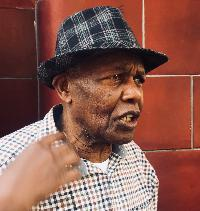
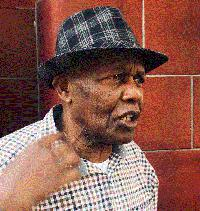
change so no hover and exif only for jpg and thumbnail for all

diff --git a/controller/uploadFunctions.php b/controller/uploadFunctions.php
@@ -3,18 +3,69 @@
 function createThumbnail($fileName)
 {
   //create thumbnail from uploaded image - thumbnail is for website/gallery display
-  $im = imagecreatefromjpeg('../uploads/'.$fileName);
-  $ox = imagesx($im);
-  $oy = imagesy($im);
+  $fileExt = explode('.', $fileName);
+  $fileExtension = strtolower(end($fileExt));
+  $_SESSION['fileExten'] = $fileExtension;
+  if($fileExtension == 'jpg' || $fileExtension == 'jpeg')
+  {
+    $im = imagecreatefromjpeg('../uploads/'.$fileName);
+    $ox = imagesx($im);
+    $oy = imagesy($im);
 
-  $nx = 200;
-  $ny = floor($oy * (200/$ox));
+    $nx = 200;
+    $ny = floor($oy * (200/$ox));
 
-  $nm = imagecreatetruecolor($nx, $ny);
+    $nm = imagecreatetruecolor($nx, $ny);
 
-  imagecopyresized($nm, $im, 0,0,0,0,$nx,$ny,$ox,$oy);
+    imagecopyresized($nm, $im, 0,0,0,0,$nx,$ny,$ox,$oy);
 
-  imagejpeg($nm, '../uploads/thumbnails/'.$fileName);
+    imagejpeg($nm, '../uploads/thumbnails/'.$fileName);
+  }
+
+  if($fileExtension == 'png')
+  {
+    $im = imagecreatefrompng('../uploads/'.$fileName);
+    $ox = imagesx($im);
+    $oy = imagesy($im);
+
+    $nx = 200;
+    $ny = floor($oy * (200/$ox));
+
+    $nm = imagecreatetruecolor($nx, $ny);
+
+    imagecopyresized($nm, $im, 0,0,0,0,$nx,$ny,$ox,$oy);
+
+    imagejpeg($nm, '../uploads/thumbnails/'.$fileName);
+  }
+
+  if($fileExtension == 'gif')
+  {
+    $im = imagecreatefromgif('../uploads/'.$fileName);
+    $ox = imagesx($im);
+    $oy = imagesy($im);
+
+    $nx = 200;
+    $ny = floor($oy * (200/$ox));
+
+    $nm = imagecreatetruecolor($nx, $ny);
+
+    imagecopyresized($nm, $im, 0,0,0,0,$nx,$ny,$ox,$oy);
+
+    imagejpeg($nm, '../uploads/thumbnails/'.$fileName);
+  }
+
+  // $im = imagecreatefromjpeg('../uploads/'.$fileName);
+  // $ox = imagesx($im);
+  // $oy = imagesy($im);
+
+  // $nx = 200;
+  // $ny = floor($oy * (200/$ox));
+
+  // $nm = imagecreatetruecolor($nx, $ny);
+
+  // imagecopyresized($nm, $im, 0,0,0,0,$nx,$ny,$ox,$oy);
+
+  // imagejpeg($nm, '../uploads/thumbnails/'.$fileName);
 }
 
 function getTheSelectedImage($data)
@@ -309,60 +360,66 @@ function getVisionTags($selectedFile)
 
 function readExifFromUploadedImages($selectedFile)
 { 
-  //assign image metadata to a variable 
-  $exif_data = exif_read_data($selectedFile);
+  //get the file extension - exif read from jpgs only
+  $fileExten = $_SESSION['fileExten'];
 
-  //get the shutter speed from exif
-  $shutterSpeed = $exif_data['ExposureTime'];
-
-  //get the numerical values from shutter speed
-  $shutterSpeedMultiplier = explode('/', $shutterSpeed);
-  
-  //the shutter speed in the exif for some images is multiplied by 10.
-  //the below checks if that's the case in order to return the correct shutter speed value
-  if ($shutterSpeedMultiplier[0] == 10)
+  if($fileExten == 'jpg'  || $fileExten == 'jpeg')
   {
-    $actualShutterSpeed1 = $shutterSpeedMultiplier[0]/$shutterSpeedMultiplier[0];
-    $actualShutterSpeed2 = $shutterSpeedMultiplier[1]/$shutterSpeedMultiplier[0];
-    $actualShutterSpeed = $actualShutterSpeed1.'/'.$actualShutterSpeed2;
-  }
-  else
-  {
-    $actualShutterSpeed = $exif_data['ExposureTime'];
-  }
+    //assign image metadata to a variable 
+    $exif_data = exif_read_data($selectedFile);
 
-  //get the resolution from exif
-  $resolution = $exif_data['XResolution'];
+    //get the shutter speed from exif
+    $shutterSpeed = $exif_data['ExposureTime'];
 
-  //get the numerical value from resolution
-  $resMultiplier = explode('/', $resolution);
-
-  if($resMultiplier[0] > 0)
-  {
-    $actualResolution = $resMultiplier[0].'dpi';
-  }
-  else
-  {
-    $actualResolution = $resolution;
-  }
-
-  //get the year of the photo from the exif
-  $date = $exif_data['DateTime'];
-  $dateExploded = explode(':', $date);
-  $yearOfImage = $dateExploded[0];
+    //get the numerical values from shutter speed
+    $shutterSpeedMultiplier = explode('/', $shutterSpeed);
     
-  //make the exif values available for db insertion
-  $_SESSION['Make'] = $exif_data['Make'];
-  $_SESSION['Model'] = $exif_data['Model'];
-  $_SESSION['ExposureTime'] = $actualShutterSpeed;
-  $_SESSION['ApertureFNumber'] = $exif_data['COMPUTED']['ApertureFNumber'];
-  $_SESSION['ISOSpeedRatings'] = $exif_data['ISOSpeedRatings'];
-  $_SESSION['XResolution'] = $actualResolution;
-  $_SESSION['ExifYear'] = $yearOfImage;
-  
-  //get the GPS data and convert from DMS to decimal
-  ConvertLatDMStoDEC();
-  ConvertLngDMStoDEC();
+    //the shutter speed in the exif for some images is multiplied by 10.
+    //the below checks if that's the case in order to return the correct shutter speed value
+    if ($shutterSpeedMultiplier[0] == 10)
+    {
+      $actualShutterSpeed1 = $shutterSpeedMultiplier[0]/$shutterSpeedMultiplier[0];
+      $actualShutterSpeed2 = $shutterSpeedMultiplier[1]/$shutterSpeedMultiplier[0];
+      $actualShutterSpeed = $actualShutterSpeed1.'/'.$actualShutterSpeed2;
+    }
+    else
+    {
+      $actualShutterSpeed = $exif_data['ExposureTime'];
+    }
+
+    //get the resolution from exif
+    $resolution = $exif_data['XResolution'];
+
+    //get the numerical value from resolution
+    $resMultiplier = explode('/', $resolution);
+
+    if($resMultiplier[0] > 0)
+    {
+      $actualResolution = $resMultiplier[0].'dpi';
+    }
+    else
+    {
+      $actualResolution = $resolution;
+    }
+
+    //get the year of the photo from the exif
+    $date = $exif_data['DateTime'];
+    $dateExploded = explode(':', $date);
+    $yearOfImage = $dateExploded[0];
+      
+    //make the exif values available for db insertion
+    $_SESSION['Make'] = $exif_data['Make'];
+    $_SESSION['Model'] = $exif_data['Model'];
+    $_SESSION['ExposureTime'] = $actualShutterSpeed;
+    $_SESSION['ApertureFNumber'] = $exif_data['COMPUTED']['ApertureFNumber'];
+    $_SESSION['ISOSpeedRatings'] = $exif_data['ISOSpeedRatings'];
+    $_SESSION['XResolution'] = $actualResolution;
+    $_SESSION['ExifYear'] = $yearOfImage;
+    
+    //get the GPS data and convert from DMS to decimal
+    ConvertLatDMStoDEC();
+    ConvertLngDMStoDEC();
+  }
 }
 
 function ConvertLatDMStoDEC()

diff --git a/view/searchImages.php b/view/searchImages.php
@@ -153,21 +153,7 @@ $searchResults = performSearch();
                                 infowindow.setContent(popupImage);
                                 infowindow.open(map, marker);
                             }
-                        })(marker, popupImage, infowindow));
-
-                        google.maps.event.addListener(marker, 'mouseover', (function(marker, popupImage, infowindow){
-                            return function() {
-                                infowindow.setContent(popupImage);
-                                infowindow.open(map, marker);
-                            }
-                        })(marker, popupImage, infowindow));
-
-                        google.maps.event.addListener(marker, 'mouseout', (function(marker, popupImage, infowindow){
-                            return function() {
-                                //infowindow.setContent(popupImage);
-                                infowindow.close();
-                            }
-                        })(marker, popupImage, infowindow));
+                        })(marker, popupImage, infowindow));                        
                     }                    
                 });       
         }
